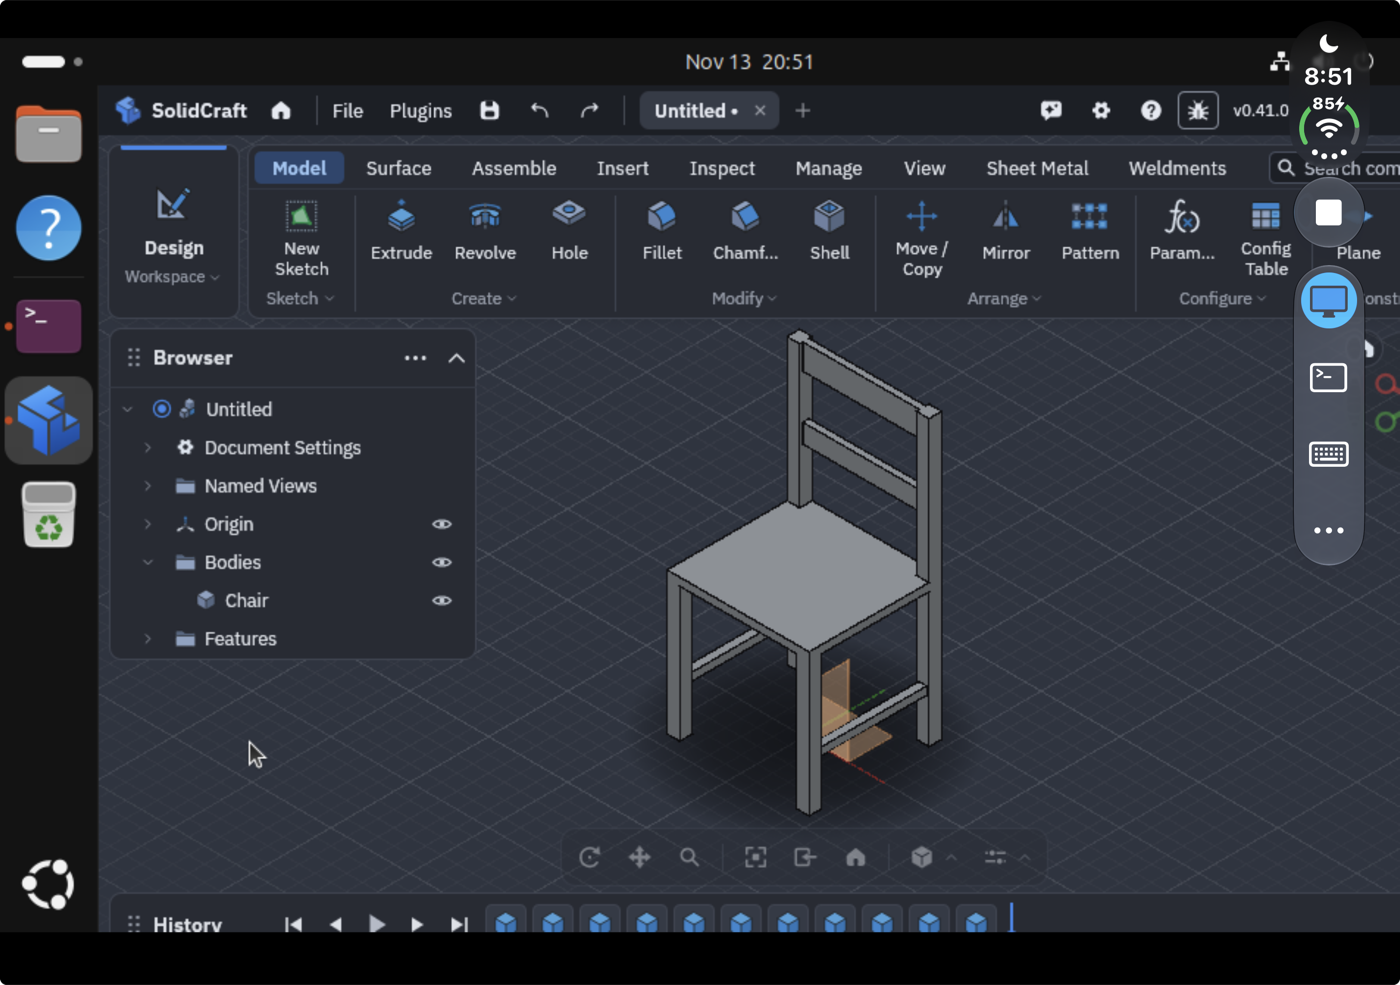
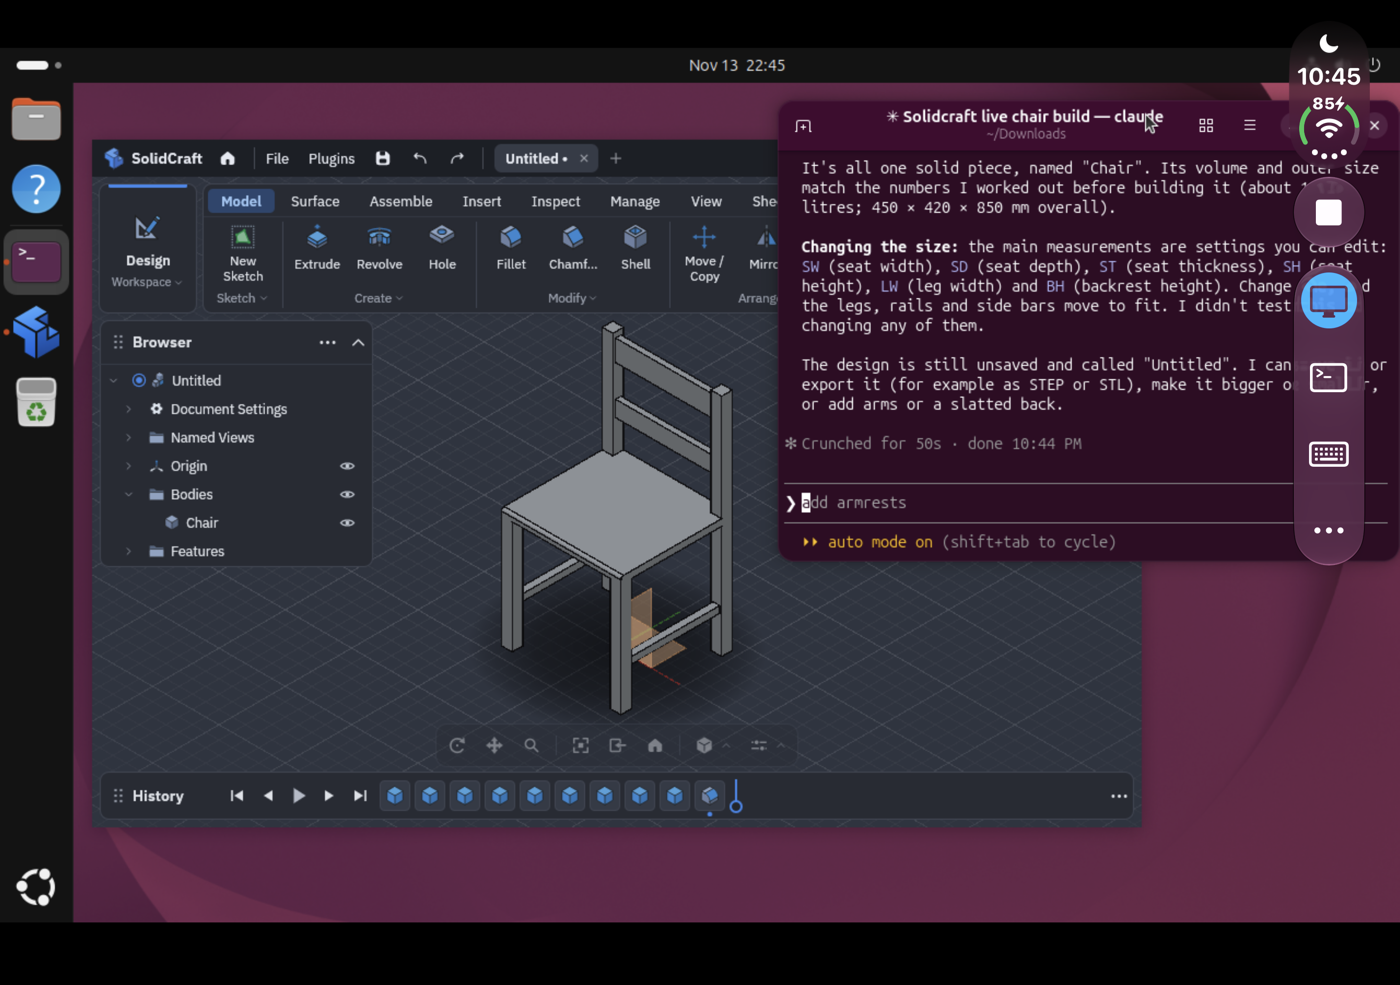
Add a device report template, and lay the gallery out as a labelled grid
Device reports ask for what tells one setup from another: device, iOS,
crate version, how it was signed, the account, the memory entitlements,
how JIT was turned on, the VM, and the exported log.

The gallery is a row of three, each with its label underneath: Claude
Code building a chair in SolidCraft (a new picture), Chrome's GPU page,
and the VM's own display settings at 1280 x 800, which fits more on
screen than the default. INSTALL.md mentions that setting too.

diff --git a/README.md b/README.md
@@ -63,14 +63,22 @@ with iOS 27.1.
 
 ## Gallery
 
-<p align="center">
-  <img src="docs/media/solidcraft.png" width="49%" alt="SolidCraft, a 3D CAD app, with a chair model, in Ubuntu's GNOME desktop on an iPhone Duo">
-  <img src="docs/media/chrome-gpu.png" width="49%" alt="Chrome's chrome://gpu page listing canvas, compositing, rasterization, video decode, WebGL and WebGPU as hardware accelerated">
-</p>
-
-<p align="center"><i>Left, a chair made in SolidCraft, a 3D CAD app, inside crate running Ubuntu with
-GNOME. Right, Chrome with GPU acceleration: chrome://gpu shows canvas, compositing,
-WebGL and WebGPU hardware accelerated.</i></p>
+<table>
+  <tr>
+    <td align="center" width="33%">
+      <img src="docs/media/solidcraft.png" alt="SolidCraft, a 3D CAD app, with a chair model, beside a terminal where Claude Code describes the chair, in Ubuntu's GNOME desktop on an iPhone Duo"><br>
+      <sub>Claude Code, running in the VM, builds a chair in SolidCraft, a 3D CAD app, on Ubuntu with GNOME.</sub>
+    </td>
+    <td align="center" width="33%">
+      <img src="docs/media/chrome-gpu.png" alt="Chrome's chrome://gpu page listing canvas, compositing, rasterization, video decode, WebGL and WebGPU as hardware accelerated"><br>
+      <sub>Chrome with GPU acceleration: chrome://gpu shows canvas, compositing, WebGL and WebGPU on the iPhone's GPU.</sub>
+    </td>
+    <td align="center" width="33%">
+      <img src="docs/media/display-settings.png" alt="GNOME's Displays settings in the VM, with the resolution set to 1280 by 800"><br>
+      <sub>The VM sets its own resolution: 1280 × 800 fits more on screen than the default.</sub>
+    </td>
+  </tr>
+</table>
 
 ## Roadmap
 

diff --git a/INSTALL.md b/INSTALL.md
@@ -101,7 +101,8 @@ JIT lasts until crate closes, so it's turned on again each time crate opens.
 In the Install tab, pick a distribution and a memory size, then Install; crate
 asks for the account to create in the VM. Without the memory entitlements, iOS
 gives crate less memory, so pick a smaller size: Settings > Memory shows the
-limit iOS gave it.
+limit iOS gave it. Once the desktop is up, its own display settings change the
+resolution; 1280 × 800 fits more on screen than the default.
 
 ## When something goes wrong
 
